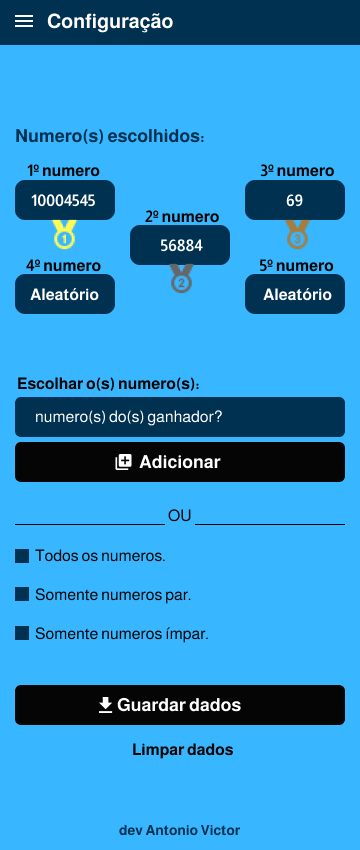
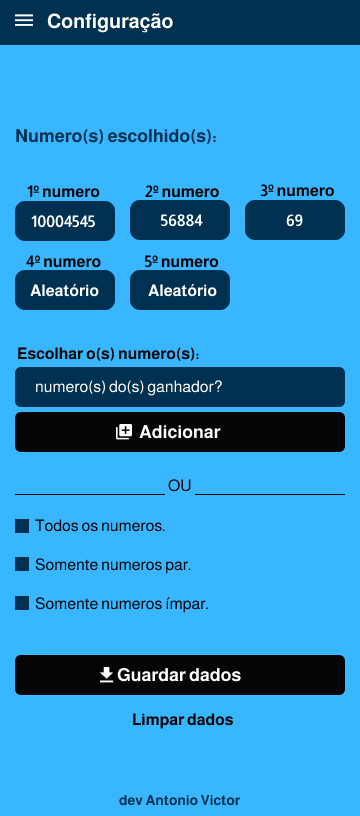
Tela Configuração 80%

diff --git a/src/pages/TelaConfiguracao.js b/src/pages/TelaConfiguracao.js
@@ -1,0 +1,157 @@
+import { React, useState, useEffect } from "react";
+import { TextInput, Button, Avatar, IconButton, Badge, Divider, Checkbox } from "react-native-paper";
+import { View, ScrollView, Text, Image, Linking } from "react-native";
+
+import styles from "../style/StyleTelaConfiguracao";
+
+function TelaResultado() {
+    const [checked, setChecked] = useState(false);
+
+
+
+    return (
+        <View style={styles.containerPrincipal}>
+            <View style={styles.container}>
+                <View style={styles.viewSorteio}>
+                    <Text style={styles.text}>Numero(s) escolhido(s):</Text>
+                </View>
+
+                <View style={styles.viewGanhador}>
+                    <View>
+                        <Text style={styles.textGanhador}>1º Numero</Text>
+                        <Badge
+                            size={28}
+                            style={styles.ganhadorResultado}
+                        >1354021</Badge>
+                    </View>
+                    <View>
+                        <Text style={styles.textGanhador}>2º Numero</Text>
+                        <Badge
+                            size={28}
+                            style={styles.ganhadorResultado}
+                        >454545</Badge>
+                    </View>
+                    <View>
+                        <Text style={styles.textGanhador}>3º Numero</Text>
+                        <Badge
+                            size={28}
+                            style={styles.ganhadorResultado}
+                        >102</Badge>
+                    </View>
+                    <View>
+                        <Text style={styles.textGanhador}>4º Numero</Text>
+                        <Badge
+                            size={28}
+                            style={styles.ganhadorResultado}
+                        >15487</Badge>
+                    </View>
+                    <View>
+                        <Text style={styles.textGanhador}>5º Numero</Text>
+                        <Badge
+                            size={28}
+                            style={styles.ganhadorResultado}
+                        >54</Badge>
+                    </View>
+                </View>
+
+                <View style={styles.butoes}>
+                    <Text style={styles.text2}>Escolhar o(s) numero(s):</Text>
+                    <TextInput
+                        label={'Numero(s) Premiado(s)'}
+                        textColor="#fff"
+                        selectionColor="#fff"
+                        right={<TextInput.Icon icon="keyboard" color={'#fff'} />}
+                        activeUnderlineColor="#fff"
+                        style={styles.textInput}
+                    />
+                    <Button
+                        buttonColor="#000"
+                        textColor="#fff"
+                        icon={'plus-box-multiple'}
+                        style={styles.button}
+                        onPress={() => { alert('OK') }}
+                    >
+                        Adicionar
+                    </Button>
+                </View>
+                <View style={styles.viewDivider}>
+                    <Text style={styles.textDivider}>
+                        <Divider
+                            style={styles.divider}
+                            bold={true}
+                        />
+                        OU
+                        <Divider
+                            style={styles.divider}
+                            bold={true}
+                        />
+                    </Text>
+                </View>
+
+                <View style={styles.viewBox}>
+                    <View style={styles.flexbox}>
+
+                        <Checkbox
+                            status={checked ? 'checked' : 'unchecked'}
+                            onPress={() => {
+                                setChecked(!checked);
+                            }}
+                            uncheckedColor="#003150"
+                            color="#003150"
+                        />
+                        <Text style={styles.textBox}>
+                            Todos os numeros.
+                        </Text>
+                    </View>
+                    <View style={styles.flexbox}>
+                        <Checkbox
+                            status={checked ? 'checked' : 'unchecked'}
+                            onPress={() => {
+                                setChecked(!checked);
+                            }}
+                            uncheckedColor="#003150"
+                            color="#003150"
+                        />
+                        <Text style={styles.textBox}>
+                            Somente numeros par.
+                        </Text>
+                    </View>
+                    <View style={styles.flexbox}>
+                        <Checkbox
+                            status={checked ? 'checked' : 'unchecked'}
+                            onPress={() => {
+                                setChecked(!checked);
+                            }}
+                            uncheckedColor="#003150"
+                            color="#003150"
+                        />
+                        <Text style={styles.textBox}>
+                            Somente numeros ímpar.
+                        </Text>
+                    </View>
+                </View >
+                <Button
+                        buttonColor="#000"
+                        textColor="#fff"
+                        icon={'content-save-cog'}
+                        style={styles.button}
+                        onPress={() => { alert('OK') }}
+                    >
+                        Guardar dados
+                    </Button>
+                <Button
+                        textColor="#003150"
+                        icon={'delete'}
+                        style={styles.button}
+                        onPress={() => { alert('OK') }}
+                    >
+                        Limpar dados
+                    </Button>
+                    
+            </View>
+                <Text style={styles.dev}>Dev Antonio Victor</Text>
+            </View>
+            )
+}
+
+            export default TelaResultado;

diff --git a/src/style/StyleTelaConfiguracao.js b/src/style/StyleTelaConfiguracao.js
@@ -1,0 +1,97 @@
+import { StyleSheet } from "react-native";
+
+const styles = StyleSheet.create({
+    containerPrincipal: {
+        backgroundColor: '#38B6FF',
+        color: '#fff',
+        flex: 1,
+        justifyContent: 'center',
+        alignItems: 'center',
+    },
+    container: {
+        marginLeft: 15,
+        marginRight: 15,
+        flex: 1,
+        backgroundColor: '#38B6FF',
+        color: "#fff",
+        justifyContent: 'center',
+        alignItems: 'center',
+        marginBottom:20,
+    },
+    viewSorteio: {
+        marginBottom: 30,
+        right: 55,
+    },
+    viewGanhador: {
+        flexDirection: 'row',
+        justifyContent: 'space-evenly',
+        flexWrap: 'wrap',
+    },
+    text: {
+        fontWeight: 700,
+        fontSize: 20,
+    },
+    text2: {
+        fontWeight: 700,
+        fontSize: 16,
+    },
+    textGanhador: {
+        textAlign: 'center',
+        fontSize: 18,
+        fontWeight: 700,
+    },
+    ganhadorResultado: {
+        marginLeft:15,
+        marginRight:15,
+        backgroundColor: '#003150',
+        height: 45,
+        width: 85,
+        marginBottom: 10,
+    },
+    butoes: {
+        marginTop: 30,
+    },
+    textInput: {
+        width: 330,
+        height: 50,
+        backgroundColor: '#003150',
+        borderRadius: 6,
+        marginBottom: 10,
+    },
+    viewDivider: {
+        marginTop: 25,
+    },
+    divider: {
+        width: 150,
+        color: "#fff",
+        backgroundColor: '#000',
+    },
+    textDivider: {
+        fontWeight: 400,
+        fontSize: 18,
+    },
+    viewBox: {
+        marginTop: 10,
+        marginBottom: 20,
+        marginRight:105,
+    },
+    flexbox: {
+        flexDirection: 'row'
+    },
+    textBox: {
+        fontSize: 18,
+        marginTop: 4,
+        marginLeft: 0,
+    },
+    button: {
+        height: 40,
+        width: 330,
+        borderRadius: 6,
+    },
+    dev: {
+        color: '#003150',
+        bottom: 10,
+    },
+});
+
+export default styles;

diff --git a/src/pages/TelaMenu.js b/src/pages/TelaMenu.js
@@ -12,6 +12,7 @@ import TelaSorteio from './TelaSorteio';
 import TelaSobre from './TelaSobre';
 import TelaContato from './TelaContato';
 import TelaResultado from './TelaResultado';
+import TelaConfiguracao from './TelaConfiguracao';
 
 
 
@@ -130,7 +131,7 @@ function TelaMenu() {
             drawerIcon: (({ focused }) => <Icon style={styles.drawerIcon} name="settings" />),
           }
         }
-        name="Configuração" component={TelaResultado} />
+        name="Configuração" component={TelaConfiguracao} />
     </Drawer.Navigator>
   );
 }
